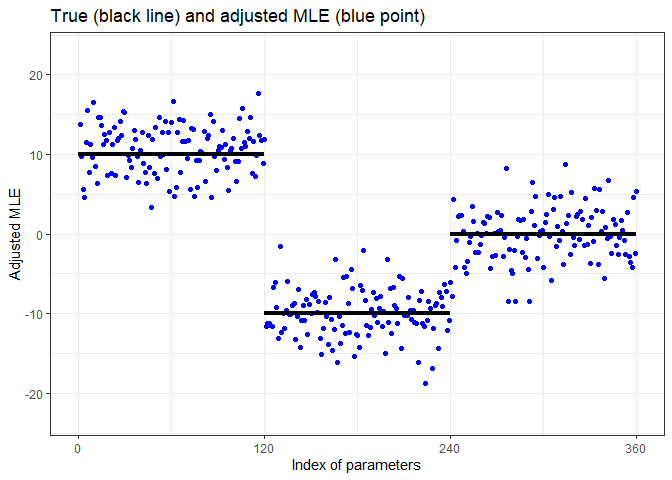
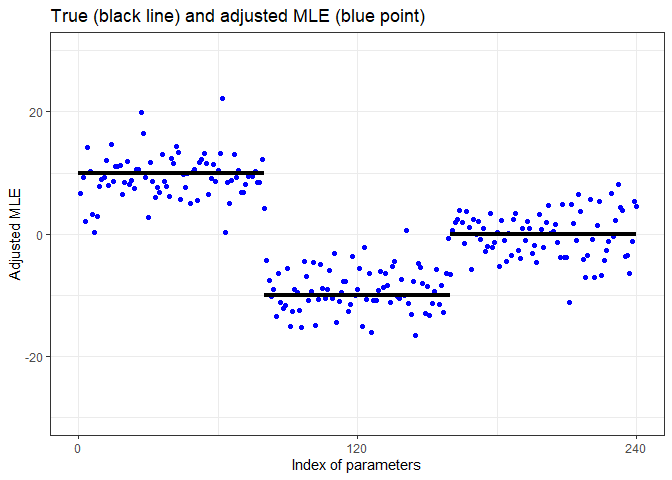
change example data

diff --git a/README.md b/README.md
@@ -20,19 +20,19 @@ achieve this, we implemented two methods:
 - “SLOE,” as proposed by Yadlowsky et al. (2021).
 
 For example, let’s consider a scenario where the number of input
-variables p = 360, and the true parameters consist of 10 for the first
+variables p = 240, and the true parameters consist of 10 for the first
 1/3, -10 for the next 1/3, and 0 for the remaining 1/3. Additionally,
-consider the sample size n = 3000. In such a case, the MLE returned by
+consider the sample size n = 1200 In such a case, the MLE returned by
 `glm()` contains a non-negligible bias.
 
 ``` r
-n <- 3000
-p <- 360
+n <- 1200
+p <- 240
 
 set.seed(314)
 x <- rnorm(n * p, mean = 0, sd = sqrt(1/n))
 X <- matrix(x, nrow = n, ncol = p)
-beta <- c(rep(10, 120), rep(-10, 120), rep(0, 120))
+beta <- rep(c(10, -10, 0), each = 80)
 prob <- plogis(X %*% beta)
 y <- rbinom(n, 1, prob)
 
@@ -43,10 +43,10 @@ theme_set(theme_bw())
 df <- data.frame(index = seq_len(p), mle = coef(fit)[-1])
 ggplot(df, aes(index, mle)) +
   geom_point(color = "blue") +
-  annotate("segment", x = c(0, 120, 240), xend = c(120, 240, 360), 
+  annotate("segment", x = c(0, 80, 160), xend = c(80, 160, 240), 
            y = c(10, -10, 0), yend = c(10, -10, 0), linewidth = 1.5) +
-  scale_x_continuous(breaks = c(0, 120, 240, 360)) +
-  ylim(-23, 23) + xlab("Index of parameters") + ylab("MLE") +
+  scale_x_continuous(breaks = c(0, 80, 160, 240)) +
+  ylim(-50, 50) + xlab("Index of parameters") + ylab("MLE") +
   ggtitle("True (black line) and MLE (blue point)")
 ```
 
@@ -66,10 +66,10 @@ fit_adj <- adjustMLE(fit)
 df <- data.frame(index = seq_len(p), mle = coef(fit_adj)[-1])
 ggplot(df, aes(index, mle)) +
   geom_point(color = "blue") +
-  annotate("segment", x = c(0, 120, 240), xend = c(120, 240, 360), 
+  annotate("segment", x = c(0, 80, 160), xend = c(80, 160, 240), 
            y = c(10, -10, 0), yend = c(10, -10, 0), linewidth = 1.5) +
   scale_x_continuous(breaks = c(0, 120, 240, 360)) +
-  ylim(-23, 23) + xlab("Index of parameters") + ylab("Adjusted MLE") +
+  ylim(-30, 30) + xlab("Index of parameters") + ylab("Adjusted MLE") +
   ggtitle("True (black line) and adjusted MLE (blue point)")
 ```
 
